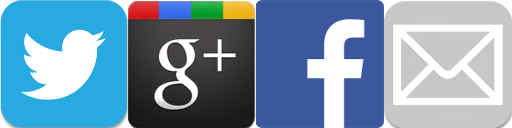
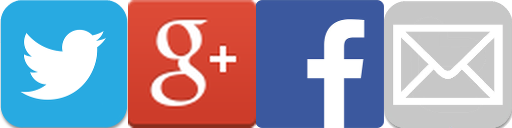
Google plus sharing

Changed region(s): [[0.25, 0.0, 0.5, 1.0]]

diff --git a/source/js/SharePopup.js b/source/js/SharePopup.js
@@ -23,7 +23,7 @@ MemoryMatch.SharePopup = {
     message: null,
     closeButton: true,
     continueButton: false,
-    domElement: null,
+    domElementEmailForm: null,
     noscale: false,
     closeEventType: null,
     primaryColorFilter: null,
@@ -45,8 +45,8 @@ MemoryMatch.SharePopup = {
             } else if (this.message == null) {
                 this.message = "";
             }
-            if (parameters.domElement != null) {
-                this.domElement = parameters.domElement;
+            if (parameters.domElementEmailForm != null) {
+                this.domElementEmailForm = parameters.domElementEmailForm;
             }
             if (parameters.closeButton != null) {
                 this.closeButton = parameters.closeButton;
@@ -89,9 +89,6 @@ MemoryMatch.SharePopup = {
         this.setupButtons();
         this.parentDisplayObject.addChild(this.groupDisplayObject);
         this.groupDisplayObject.setTransform(this.parentDisplayObject.canvas.width * 0.5, this.parentDisplayObject.canvas.height * 0.5, 1, 1, 0, 0, 0, this.backgroundWidth * 0.5, this.backgroundHeight * 0.5);
-        if (this.domElement != null) {
-            this.setupDOMElement(); // need to do this after the transformation
-        }
         if (autoStart == null) {
             autoStart = false;
         }
@@ -177,7 +174,11 @@ MemoryMatch.SharePopup = {
             parameters.description = MemoryMatch.GameSetup.gameSubTitle;
         }
         enginesis.ShareHelper.share(networkId, parameters, this.onNetworkShareComplete.bind(this));
-        this.closePopup("continue"); // if user cancels we will never know!
+        if (networkId != 'email') {
+            this.closePopup("continue"); // if user cancels we will never know!
+        } else {
+            this.showEmailForm();
+        }
     },
 
     onNetworkShareComplete: function (networkId) {
@@ -225,36 +226,39 @@ MemoryMatch.SharePopup = {
         }
     },
 
-    setupDOMElement: function () {
+    setupDOMElement: function (domElementId) {
         // Position a DOM element in the center of the popup. Expecting the element to be a div containing what we want to show.
         // Register domElement to its center
-        var pageElement = document.getElementById(this.domElement),
-            domElement = new createjs.DOMElement(pageElement),
-            scaleFactor = 1,
+        var pageElement = document.getElementById(domElementId),
+            domElement,
+            positionOffset,
+            scaleFactorX,
+            scaleFactorY,
             x,
             y,
             width,
             height;
 
-        if (domElement != null) {
-            width = pageElement.clientWidth;
-            height = pageElement.clientHeight;
-            if ( ! this.noscale) {
-                scaleFactor = MemoryMatch.stageScaleFactor;
-                if (scaleFactor < 0.5) {
-                    // this is a complete hack. If the scale factor is less than 50% it is scaled too much (about 2x too much), so
-                    // I am adjusting it on a random number that looks good while testing. No idea why this is happening or what the right number should be.
-                    scaleFactor *= 1.3333;
+        if (pageElement != null) {
+            domElement = new createjs.DOMElement(pageElement)
+            if (domElement != null) {
+                domElement.name = 'text';
+                width = pageElement.clientWidth;
+                height = pageElement.clientHeight;
+
+                // the div was scaled by CSS, we need to determine how much the div was scaled, then center it
+                scaleFactorX = MemoryMatch.stageScaleFactor * (MemoryMatch.cssScaledWidth / MemoryMatch.stageWidth);
+                scaleFactorY = MemoryMatch.stageScaleFactor * (MemoryMatch.cssScaledHeight / MemoryMatch.stageHeight);
+                if (MemoryMatch.stageScaleFactor == 0.5) {
+                    positionOffset = -0.5;
+                } else {
+                    positionOffset = -0.57;
                 }
-                width *= scaleFactor;
-                height *= scaleFactor;
-                x = this.backgroundWidth * 0.05;
-            } else {
-                x = (this.backgroundWidth - width) * 0.5;
+                x = Math.floor(this.backgroundWidth * positionOffset);
+                y = Math.floor(this.backgroundHeight * positionOffset);
+                this.groupDisplayObject.addChild(domElement);
+                domElement.setTransform(x, y, scaleFactorX, scaleFactorY, 0, 0, 0, 0, 0);
             }
-            y = this.backgroundHeight * 0.08;
-            domElement.setTransform(x, y, scaleFactor, scaleFactor, 0, 0, 0, 0, 0);
-            this.groupDisplayObject.addChild(domElement);
         }
     },
 
@@ -279,6 +283,7 @@ MemoryMatch.SharePopup = {
         titleTextField.y = this.backgroundHeight * 0.2;
         titleTextField.lineWidth = this.backgroundWidth - (this.marginLeft * 2);
         titleTextField.maxWidth = this.backgroundWidth - (this.marginLeft * 2);
+        titleTextField.name = 'title';
         this.groupDisplayObject.addChild(titleTextField);
     },
 
@@ -321,6 +326,32 @@ MemoryMatch.SharePopup = {
             shareButton.setTransform(shareButtonsStartX + ((buttonSize.width + shareButtonsMargin) * i), this.backgroundHeight * 0.4, buttonScale, buttonScale);
             this.groupDisplayObject.addChild(shareButton);
             this.buttonInstances.push(shareButton);
+        }
+    },
+
+    showEmailForm: function () {
+        // the email form is a DOM element we need to show it, hide the buttons
+        // Hide the share buttons
+        var shareButton,
+            shareButtonsCount,
+            networkId,
+            i;
+
+        this.isEnabled = true;
+        shareButtonsCount = this.shareNetworks.length;
+        for (i = 0; i < shareButtonsCount; i ++) {
+            networkId = this.shareNetworks[i].id;
+            shareButton = this.groupDisplayObject.getChildByName(networkId);
+            if (shareButton != null) {
+                shareButton.visible = false;
+            }
+        }
+        shareButton = this.groupDisplayObject.getChildByName('title');
+        if (shareButton != null) {
+            shareButton.visible = false;
+        }
+        if (this.domElement != null) {
+            this.setupDOMElement(this.domElementEmailForm);
         }
     },
 

diff --git a/source/lib/ShareHelper.js b/source/lib/ShareHelper.js
@@ -166,8 +166,20 @@ enginesis.ShareHelper = {
 
     initializeGooglePlus: function (parameters, callbackWhenComplete) {
         // load and init G+
-        if (callbackWhenComplete != null) {
-            callbackWhenComplete('googleplus');
+        var googleJS,
+            plusOneJS = document.createElement('script');
+
+        this.callBackWhenComplete = callbackWhenComplete;
+        plusOneJS.type = 'text/javascript';
+        plusOneJS.async = true;
+        plusOneJS.src = 'https://apis.google.com/js/client:plusone.js?onload=onGooglePlusLoaded';
+        googleJS = document.getElementsByTagName('script')[0];
+        googleJS.parentNode.insertBefore(plusOneJS, googleJS);
+    },
+
+    onGooglePlusLoaded: function (event) {
+        if (this.callBackWhenComplete != null) {
+            this.callBackWhenComplete('googleplus');
         }
     },
 
@@ -203,7 +215,25 @@ enginesis.ShareHelper = {
     },
 
     GoogleFeed: function (parameters, callbackWhenComplete) {
+        var options = {
+            contenturl: parameters.link,
+            clientid: '972925239064-mgco9a8lvqu00tuf9pv3q9c385834h66.apps.googleusercontent.com',
+            cookiepolicy: 'single_host_origin',
+            prefilltext: parameters.description,
+            calltoactionlabel: 'CHALLENGE',
+            calltoactionurl: parameters.link,
+            contentdeeplinkid: '/pages',
+            calltoactiondeeplinkid: '/pages/create'
+            },
+            domElement;
 
+        // Call the render method when appropriate within your app to display
+        // the button.
+        gapi.interactivepost.render('googleSharePost', options);
+        domElement = document.getElementById('googleSharePost');
+        if (typeof domElement.onclick == "function") {
+            domElement.onclick.apply(domElement);
+        }
     },
 
     TwitterStatus: function (parameters, callbackWhenComplete) {

diff --git a/source/js/MemoryMatch.js b/source/js/MemoryMatch.js
@@ -5408,6 +5408,12 @@ function runTests() {
 
 };
 
+function onGooglePlusLoaded () {
+    if (enginesis != null && enginesis.ShareHelper != null) {
+        enginesis.ShareHelper.onGooglePlusLoaded();
+    }
+};
+
 //====================================================================================
 // initApp is called from the page load. This is the entry point. When assets are loaded
 // we call MemoryMatch.allAssetsLoaded

diff --git a/source/index.html b/source/index.html
@@ -157,6 +157,7 @@
         </div>
     </div>
     <div id="sharearea">
+        <span id="googleSharePost"></span>
     </div>
     <canvas id="memoryMatch">In order to enjoy this content you must upgrade your browser to an HTML5 compatible version.</canvas>
 </div>
